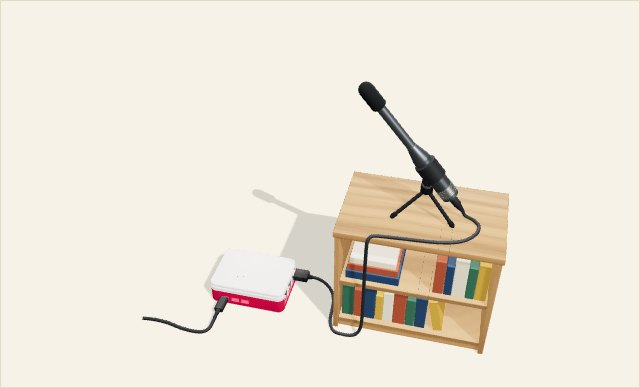
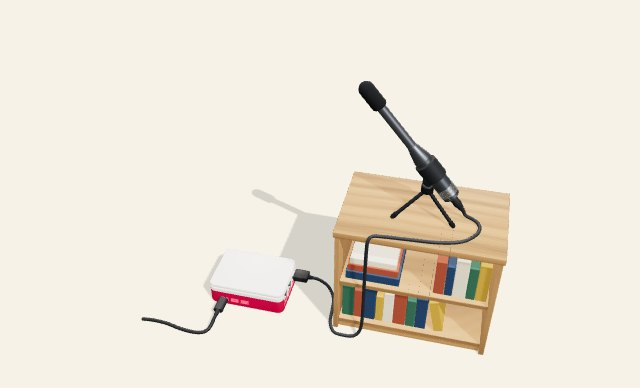
Step pictures are taken when the page says it has drawn
The picture script took the browser's own screenshot after a fast-forwarded
wait. Step 7 came out empty about every second time (also on the published
code), because the hidden browser had not drawn a frame yet. Now the picture
frame waits for real drawn frames and sends the 3D view to the script.
All 12 pictures retaken; they show the same views as before.

Claude-Session: https://claude.ai/code/session_01TojNKPovKAr42p9DyJKwhL

diff --git a/checks/step-picture.html b/checks/step-picture.html
@@ -1,5 +1,11 @@
 <!doctype html><meta charset="utf-8"><body style="margin:0;background:#f7f2e8"><iframe id="f" style="width:1200px;height:1400px;border:0"></iframe>
-<script>/* Frame used by scripts/make_pictures.py: loads one step of the 3D tab and leaves only the 3D view, 640 x 388. ?step=6&mode=nolabels */
+<script>/* Frame used by scripts/make_pictures.py: loads one step of the 3D tab, leaves only the 3D view (640 x 388), waits until it
+   has really been drawn, then sends the picture to the script. ?step=6&mode=nolabels */
 const f=document.getElementById('f');f.src='../index.html'+location.search+'#model';
-f.onload=function(){const d=f.contentDocument;const t=setInterval(function(){if(d.body.dataset.modelLoaded!=='yes')return;clearInterval(t);
- const v=d.getElementById('viewer');v.style.cssText='position:fixed;left:0;top:0;width:640px;height:388px;z-index:9999;border-radius:0';},200);};</script></body>
+f.onload=function(){const d=f.contentDocument,w=f.contentWindow;const t=setInterval(async function(){if(d.body.dataset.modelLoaded!=='yes')return;clearInterval(t);
+ const v=d.getElementById('viewer'),c=v.querySelector('canvas');v.style.cssText='position:fixed;left:0;top:0;width:640px;height:388px;z-index:9999;border-radius:0;border:0';
+ const frames=function(n){return new Promise(function(r){let k=0;const g=function(){++k>=n?r():w.requestAnimationFrame(g);};w.requestAnimationFrame(g);});};
+ for(let i=0;i<200&&!(c.width===640&&c.height===388);i++)await frames(1);          /* the view has taken its new size */
+ await new Promise(function(r){setTimeout(r,700);});await frames(4);              /* and has been drawn at that size */
+ c.toBlob(function(b){fetch('/step-picture',{method:'POST',body:b}).then(function(){document.title='picture sent';},function(){document.title='picture ready (opened by hand: nothing to send it to)';});},'image/png');
+},200);};</script></body>

diff --git a/scripts/make_pictures.py b/scripts/make_pictures.py
@@ -17,15 +17,40 @@ CHROME = r"C:\Program Files\Google\Chrome\Application\chrome.exe"
 AT = {6: "&at=0.5"}   # step 6's picture is taken half way through its animation: the Pi in the base, the frame on its way down
 
 
+SENT = {}
+ARRIVED = threading.Event()
+
+
 class Quiet(http.server.SimpleHTTPRequestHandler):
     def log_message(self, *a):
         pass
 
+    def do_POST(self):  # the picture frame sends the drawn 3D view here, as a PNG, once it has really been drawn
+        if self.path == "/step-picture":
+            SENT["png"] = self.rfile.read(int(self.headers.get("Content-Length") or 0))
+            ARRIVED.set()
+        self.send_response(204)
+        self.end_headers()
+
 
 def shot(url, out, size="660,420"):
+    """Opens the picture frame in a hidden Chrome, in real time, and waits for it to send the drawn 3D view.
+    (Until 24 Nov 2026 the browser's own screenshot was taken after a fast-forwarded wait; step 7 came out empty about
+    every second time, because the hidden browser had not drawn a frame yet.) Returns False if nothing arrived."""
+    SENT.clear()
+    ARRIVED.clear()
     with tempfile.TemporaryDirectory(ignore_cleanup_errors=True) as prof:
-        subprocess.run([CHROME, "--headless=new", "--hide-scrollbars", "--use-angle=swiftshader", "--enable-unsafe-swiftshader", f"--user-data-dir={prof}",
-                        "--no-first-run", f"--window-size={size}", "--virtual-time-budget=14000", f"--screenshot={out}", url], capture_output=True, timeout=120)
+        proc = subprocess.Popen([CHROME, "--headless=new", "--hide-scrollbars", "--use-angle=swiftshader", "--enable-unsafe-swiftshader", f"--user-data-dir={prof}",
+                                 "--no-first-run", f"--window-size={size}", url], stdout=subprocess.DEVNULL, stderr=subprocess.DEVNULL)
+        ARRIVED.wait(timeout=60)
+        proc.terminate()
+        try:
+            proc.wait(timeout=20)
+        except subprocess.TimeoutExpired:
+            proc.kill()
+    if "png" in SENT:
+        Path(out).write_bytes(SENT["png"])
+    return "png" in SENT
 
 
 def fingerprint(*names):
@@ -59,10 +84,11 @@ def main():
     with tempfile.TemporaryDirectory(ignore_cleanup_errors=True) as tmp:
         for s in steps:
             png = Path(tmp) / f"{s['n']}.png"
-            for attempt in range(3):   # now and then the hidden browser takes its picture before the model is drawn: try again
-                shot(f"http://127.0.0.1:{srv.server_port}/checks/step-picture.html?step={s['n']}&mode=nolabels" + AT.get(s["n"], ""), png)
-                im = Image.open(png).convert("RGB").crop((0, 0, 640, 388))
-                colours = len(im.resize((80, 48)).getcolors(10000) or [])
+            for attempt in range(3):   # a second and third try, in case the hidden browser did not answer
+                colours = 0
+                if shot(f"http://127.0.0.1:{srv.server_port}/checks/step-picture.html?step={s['n']}&mode=nolabels" + AT.get(s["n"], ""), png):
+                    im = Image.open(png).convert("RGB").crop((0, 0, 640, 388))
+                    colours = len(im.resize((80, 48)).getcolors(10000) or [])
                 if colours > 40:
                     break
             assert colours > 40, f"step {s['n']}: the picture looks empty after 3 tries ({colours} colours)"
